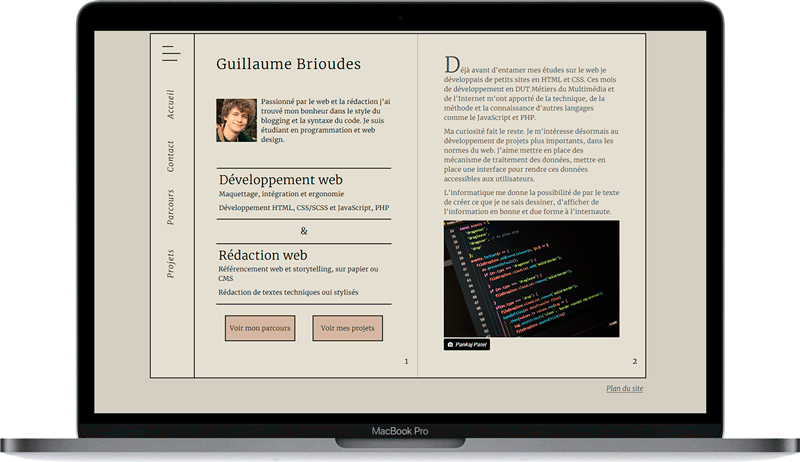
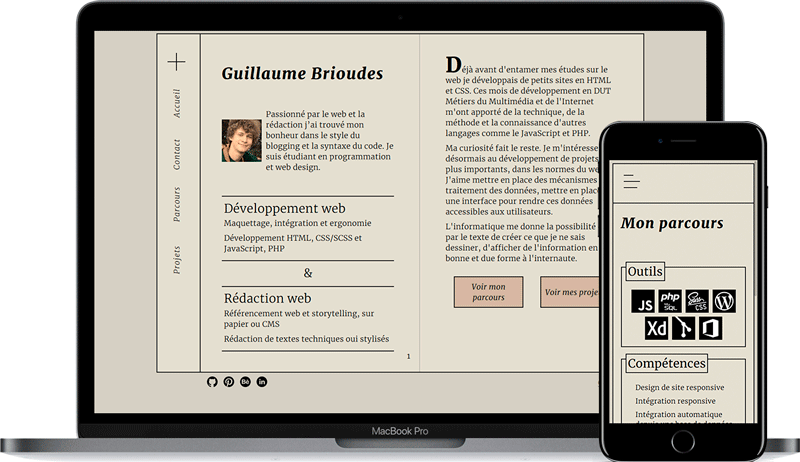
Visuels de projet et volet

Changed region(s): [[0.1875, 0.0606, 0.9688, 1.0]]

diff --git a/include/volet.php b/include/volet.php
@@ -7,23 +7,16 @@
 
 <section class="volet__content__colonnes row">
     <article class="volet-colonne volet-projet">
-        <h2>Projets</h2>
+        <h2>En ce moment...</h2>
 
         <article class="bloc-projet titre-border_content">
-            <h3 class="titre-border">Maquette</h3>
-            <div class="bloc-projet__description row">
-                <img src="/src/images/projet_schprochrenner.png" alt="" class="bloc-projet--image">
-                <h4>Sprochrenner</h4>
-                <p>Création avec une de mes camarades de promo d'un site responsive pour l'évenement éponyme.</p>
-                <a href="https://myllaume.github.io/sprochrenner/" target="_blank" class="bouton-little">
+            <h3 class="titre-border">Maquette responsive</h3>
+            <div class="bloc-projet__description row"><img class="bloc-projet--image" alt="" src="../src/images/projet_index.png">
+                <h4>Index, hypertexte</h4>
+                <p>Maquette responsive pour un projet de blog en cours de développement et au sujet de l'hypertexte.</p><a
+                    class="bouton-little" target="_blank" href="../src/docs/maquette_index.pdf">
                     <div class="bouton-volet-content">
-                        <p>Voir le site</p>
-                        <div class="bouton-volet-animation"></div>
-                    </div>
-                </a>
-                <a href="https://github.com/Myllaume/sprochrenner" target="_blank" class="bouton-little">
-                    <div class="bouton-volet-content">
-                        <p>Voir le code</p>
+                        <p>Voir la maquette</p>
                         <div class="bouton-volet-animation"></div>
                     </div>
                 </a>
